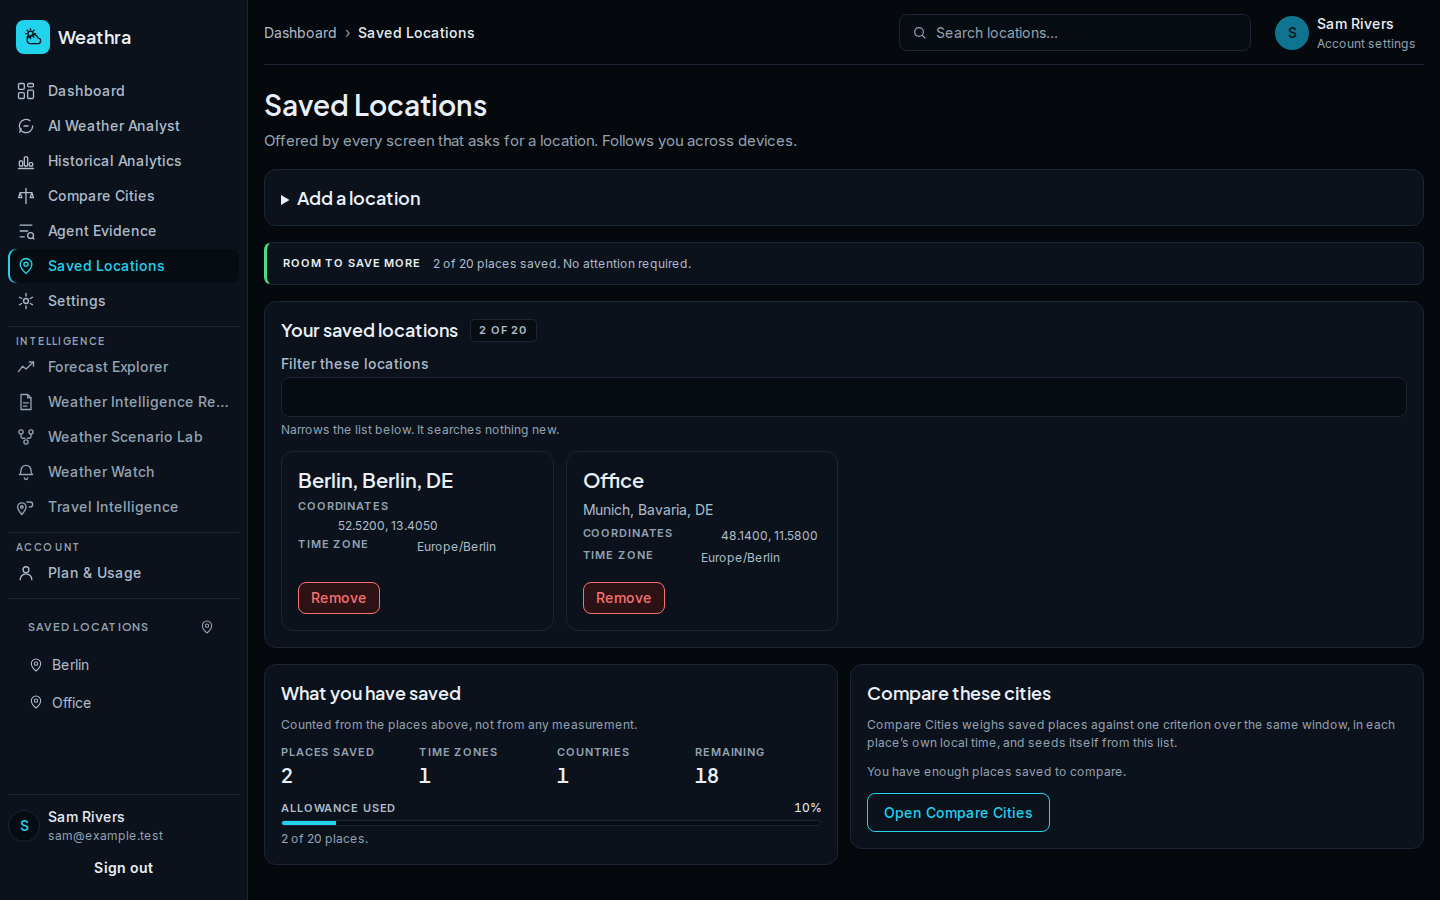
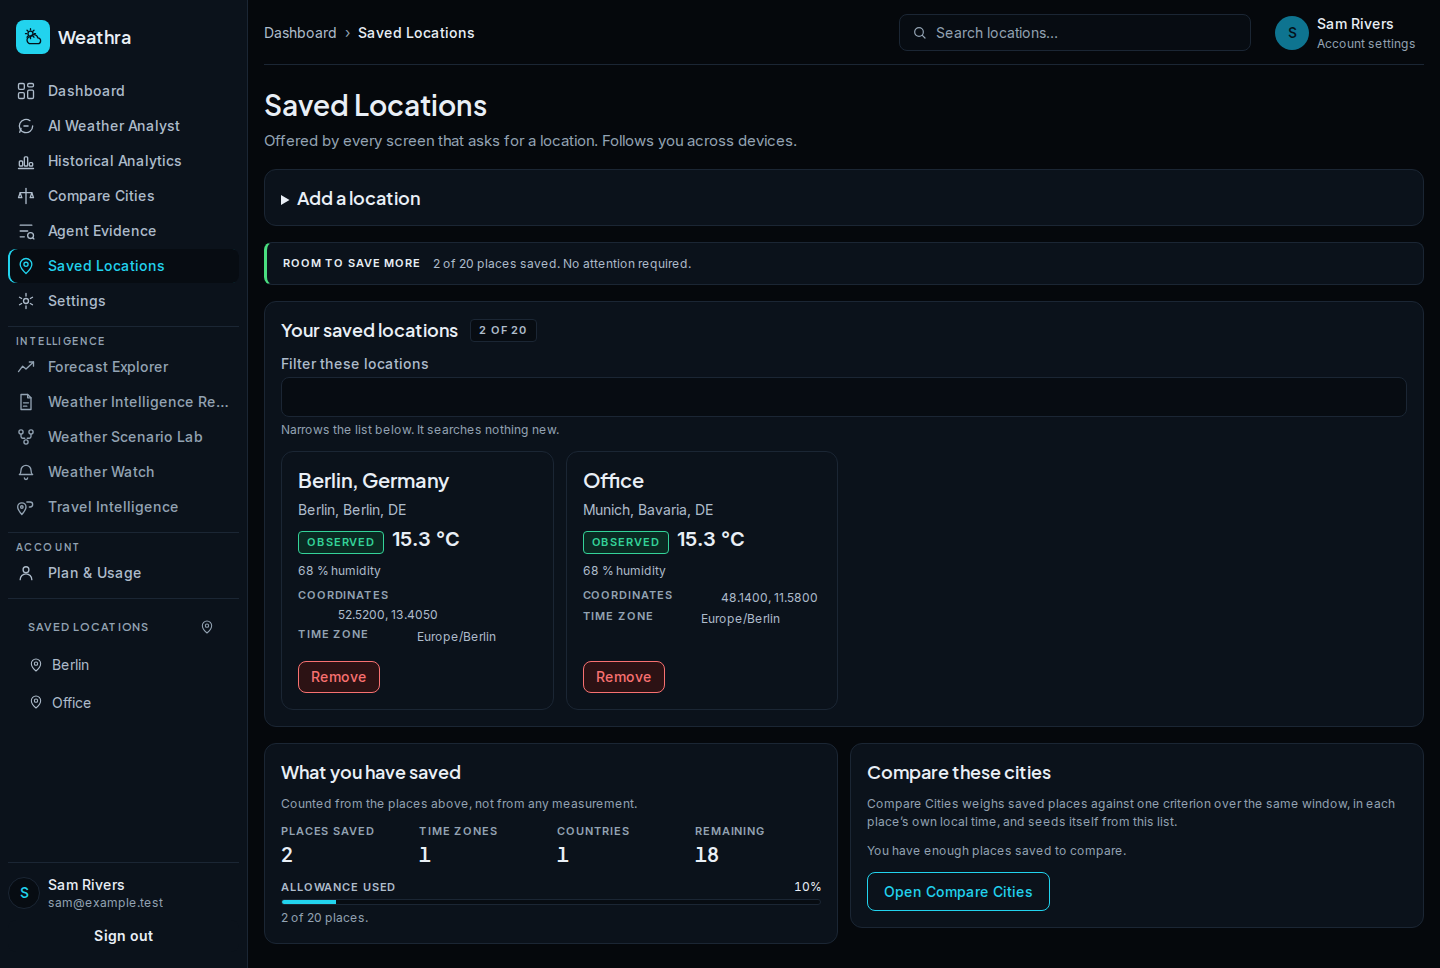
feat(locations): name places for people, and put the weather on the card
Two gaps a screenshot of the running screen made obvious.

A saved Berlin read **"Berlin, Berlin, DE"**. That is `qualifiedName`, which
exists to round-trip a place back through the geocoder — country *code*, region
repeated even when the region is the city. It was never meant to be read.
`friendlyName` is: the country spelled out, and the region only when it says
something the city does not. Berlin, Germany. Tokyo, Japan. Yamunanagar,
Haryana, India. No city is named in the implementation; the rule is about what
the provider reported.

And the cards carried a name, coordinates and a Remove button — no weather at
all. `06-saved-locations.png` puts the weather on every card, and it is the
reason the screen exists: a list of names and coordinates answers nothing a
person came here to ask. Each card now reads `/weather/current` for its own
point, the same endpoint the Dashboard uses so the two cannot disagree, cached
by the query layer. The temperature leads; humidity and wind follow quietly;
the coordinates stay, as the card's smallest print, because they are how
Weathra identifies a place rather than what it is called. A place whose
provider reports nothing shows nothing, not a row of dashes.

The canonical line under a card now appears only when the title is the
person's own label — repeating "Berlin, Germany" under "Berlin, Germany" was
noise.

diff --git a/weathra/frontend/components/locations/locations.tsx b/weathra/frontend/components/locations/locations.tsx
@@ -31,20 +31,37 @@
 import Link from "next/link";
 import { useCallback, useState, type FormEvent, type ReactNode } from "react";
 
-import { Badge, Button, EmptyState, ErrorState, Input, LoadingState, Meter } from "@/components/ui";
+import {
+  Badge,
+  Button,
+  DataClassBadge,
+  EmptyState,
+  ErrorState,
+  Input,
+  LoadingState,
+  Meter,
+  Skeleton,
+} from "@/components/ui";
 import { ViewStateSwitch } from "@/components/view-state";
-import type { Location, SavedLocationRecord, SavedLocationsResponse } from "@/lib/api/schema";
+import type {
+  CurrentResponse,
+  Location,
+  SavedLocationRecord,
+  SavedLocationsResponse,
+} from "@/lib/api/schema";
 import {
   coordinatesOf,
   isUnnamedPlace,
   matchesFilter,
-  qualifiedName,
+  placeKey,
+  friendlyName,
   savedLocationDisplay,
   savedLocationLabel,
   sendableName,
 } from "@/lib/locations/place";
 import { useApiMutation, useApiQuery } from "@/lib/query/hooks";
 import { PREFERENCES_KEY, SAVED_LOCATIONS_KEY } from "@/lib/query/keys";
+import { formatReading, readingFor } from "@/lib/dashboard/briefing";
 import { useLocationResolution } from "@/hooks/use-location-resolution";
 
 import { CandidateChoice } from "./candidate-choice";
@@ -114,6 +131,46 @@ function NamePlace({
 }
 
 
+/**
+ * The current conditions at one saved place.
+ *
+ * `06-saved-locations.png` puts weather on every card, and it is the reason the screen exists: a
+ * list of names and coordinates answers nothing a person came here to ask. This reads
+ * `/weather/current` for the card's own coordinates — the same endpoint the Dashboard uses, so the
+ * two cannot disagree — and the query layer caches it, so opening the screen twice is one request
+ * per place rather than two.
+ *
+ * A place whose provider reports nothing renders nothing rather than a row of dashes. The card is
+ * still a card; it simply has no weather to show yet.
+ */
+function CardWeather({ location }: { readonly location: Location }): ReactNode {
+  const { state } = useApiQuery<CurrentResponse>({
+    key: ["weather", "current", placeKey(location)],
+    request: (client) =>
+      client.current({ latitude: location.latitude, longitude: location.longitude }),
+  });
+
+  if (state.kind === "loading") return <Skeleton height="var(--space-5)" />;
+  if (state.kind !== "ready") return null;
+
+  const temperature = readingFor("temperature", state.data.values, state.data.units);
+  const humidity = readingFor("relative_humidity", state.data.values, state.data.units);
+  const wind = readingFor("wind_speed", state.data.values, state.data.units);
+
+  if (!temperature && !humidity && !wind) return null;
+
+  return (
+    <div className={styles.cardWeather}>
+      <DataClassBadge dataClass="observed" />
+      {temperature ? <span className={styles.cardTemp}>{formatReading(temperature)}</span> : null}
+      <span className={styles.cardMeasures}>
+        {humidity ? <span>{formatReading(humidity)} humidity</span> : null}
+        {wind ? <span>{formatReading(wind)} wind</span> : null}
+      </span>
+    </div>
+  );
+}
+
 function LocationCard({
   record,
   onRemove,
@@ -129,7 +186,10 @@ function LocationCard({
   readonly naming: boolean;
   readonly disabled: boolean;
 }): ReactNode {
-  const canonical = qualifiedName(record.location);
+  // The place's own name, spelled for a person. Shown under the card's title only when the title is
+  // the person's *label* — repeating "Berlin, Germany" under "Berlin, Germany" is noise, and the
+  // qualified form the geocoder round-trips ("Berlin, Berlin, DE") is not for reading.
+  const canonical = friendlyName(record.location);
   const name = savedLocationLabel(record);
   const unnamed = isUnnamedPlace(record);
   const shown = savedLocationDisplay(record);
@@ -149,6 +209,13 @@ function LocationCard({
         <NamePlace record={record} onName={onName} busy={naming} disabled={disabled} />
       ) : null}
 
+      <CardWeather location={record.location} />
+
+      {/*
+        Where the place is, under what it is called and what the weather is doing there. Coordinates
+        are how Weathra identifies a point and are kept visible for that reason — but they are the
+        card's smallest print, not its subject.
+      */}
       <dl className={styles.cardFacts}>
         <div className={styles.cardRow}>
           <dt className={styles.cardTerm}>Coordinates</dt>
@@ -262,7 +329,7 @@ function AddLocation({
   );
 
   const saved = add.state.kind === "saved" ? add.state.data : null;
-  const savedPlaceName = saved?.location ? qualifiedName(saved.location) : null;
+  const savedPlaceName = saved?.location ? friendlyName(saved.location) : null;
 
   return (
     /*

diff --git a/weathra/frontend/lib/locations/place.test.ts b/weathra/frontend/lib/locations/place.test.ts
@@ -13,6 +13,7 @@ import type { Location, SavedLocationRecord } from "@/lib/api/schema";
 
 import {
   coordinatesOf,
+  friendlyName,
   isCoordinateName,
   isSamePlace,
   isUnnamedPlace,
@@ -84,8 +85,9 @@ describe("savedLocationLabel", () => {
   });
 
   it("falls back to the canonical name, never to a blank", () => {
-    expect(savedLocationLabel(record({ label: "   " }))).toBe("Berlin, Berlin, DE");
-    expect(savedLocationLabel(record({ label: null }))).toBe("Berlin, Berlin, DE");
+    // The readable name, not the geocoder's round-trip form.
+    expect(savedLocationLabel(record({ label: "   " }))).toBe("Berlin, Germany");
+    expect(savedLocationLabel(record({ label: null }))).toBe("Berlin, Germany");
   });
 });
 
@@ -206,5 +208,47 @@ describe("a saved place with no name of its own", () => {
     // The display name stops being digits; the coordinates remain available as metadata.
     expect(savedLocationDisplay(record)).toBe(UNNAMED_PLACE);
     expect(coordinatesOf(record.location)).toContain("-33.8688");
+  });
+});
+
+describe("the name a person reads", () => {
+  const place = (overrides: Partial<Location>): Location =>
+    ({
+      display_name: "Berlin",
+      latitude: 52.52,
+      longitude: 13.405,
+      timezone: "Europe/Berlin",
+      ...overrides,
+    }) as Location;
+
+  it("spells the country out and drops a region that repeats the city", () => {
+    expect(friendlyName(place({ region: "Berlin", country: "Germany", country_code: "DE" }))).toBe(
+      "Berlin, Germany",
+    );
+  });
+
+  it("keeps a region that says something the city does not", () => {
+    expect(
+      friendlyName(
+        place({ display_name: "Yamunanagar", region: "Haryana", country: "India", country_code: "IN" }),
+      ),
+    ).toBe("Yamunanagar, Haryana, India");
+  });
+
+  it("works for arbitrary places worldwide, naming no city in the implementation", () => {
+    expect(friendlyName(place({ display_name: "Tokyo", region: "Tokyo", country: "Japan" }))).toBe(
+      "Tokyo, Japan",
+    );
+    expect(
+      friendlyName(place({ display_name: "Dubai", region: "Dubai", country: "United Arab Emirates" })),
+    ).toBe("Dubai, United Arab Emirates");
+  });
+
+  it("falls back to the country code when the provider reported no country name", () => {
+    expect(friendlyName(place({ country_code: "DE" }))).toBe("Berlin, DE");
+  });
+
+  it("is the city alone when the provider reported nothing else", () => {
+    expect(friendlyName(place({}))).toBe("Berlin");
   });
 });

diff --git a/weathra/frontend/lib/locations/place.ts b/weathra/frontend/lib/locations/place.ts
@@ -33,6 +33,31 @@ export function qualifiedName(location: Location): string {
 }
 
 /**
+ * The name a person reads: `Berlin, Germany`, `Yamunanagar, Haryana, India`.
+ *
+ * Distinct from `qualifiedName`, and the two must not be confused. That one round-trips to the
+ * geocoder, so it uses the country *code* and repeats the region even when the region is the city —
+ * which is why a saved Berlin read "Berlin, Berlin, DE" on screen. This one is for reading: the
+ * country is spelled out, and the region appears only when it says something the city does not.
+ *
+ * Nothing is invented. A place whose provider reported no country is its city, and a place with no
+ * name at all is handled a level up by `savedLocationDisplay`.
+ */
+export function friendlyName(location: Location): string {
+  const city = location.display_name?.trim() ?? "";
+  const region = location.region?.trim() ?? "";
+  const country = location.country?.trim() || location.country_code?.trim() || "";
+
+  const parts = [city];
+  // A region that merely repeats the city adds nothing — Berlin is in Berlin — and a region equal
+  // to the country is the same redundancy one level up.
+  if (region && region !== city && region !== country) parts.push(region);
+  if (country && country !== city) parts.push(country);
+
+  return parts.join(", ");
+}
+
+/**
  * A stable key for a place, from its coordinates.
  *
  * The same distinction the backend's saved-location store de-duplicates on: a place is where it is,
@@ -51,7 +76,7 @@ export function isSamePlace(left: Location | null | undefined, right: Location |
 
 /** What a saved location is called: the person's own label, or the canonical name. */
 export function savedLocationLabel(record: SavedLocationRecord): string {
-  return record.label?.trim() || qualifiedName(record.location);
+  return record.label?.trim() || friendlyName(record.location);
 }
 
 /** What an unnamed place is called on screen, until somebody names it. */

diff --git a/weathra/frontend/components/locations/locations.test.tsx b/weathra/frontend/components/locations/locations.test.tsx
@@ -158,13 +158,15 @@ describe("the saved list", () => {
     expect(cards).toHaveLength(2);
 
     expect(cards[0]).toHaveAttribute("data-saved-location", "s-berlin");
-    expect(cards[0]).toHaveTextContent("Berlin, Berlin, DE");
+    expect(cards[0]).toHaveTextContent("Berlin, Germany");
     expect(cards[0]).toHaveTextContent("52.5200, 13.4050");
     expect(cards[0]).toHaveTextContent("Europe/Berlin");
 
     // A person's own label leads, with the canonical name still shown beneath it.
     expect(cards[1]).toHaveTextContent("Office");
-    expect(cards[1]).toHaveTextContent("Tokyo, Tokyo, JP");
+    // Under a label, the place is named for a person: "Tokyo, Japan", not the geocoder's
+    // round-trip form.
+    expect(cards[1]).toHaveTextContent("Tokyo, Japan");
 
     expect(within(list).getByText("2 of 20")).toBeInTheDocument();
   });
@@ -264,7 +266,7 @@ describe("adding a location", () => {
     });
 
     // Confirmed by the backend, and the list re-read rather than patched locally.
-    expect(await screen.findByText("Saved Tokyo, Tokyo, JP.")).toBeInTheDocument();
+    expect(await screen.findByText("Saved Tokyo, Japan.")).toBeInTheDocument();
     await waitFor(() =>
       expect(
         within(screen.getByRole("region", { name: "Your saved locations" })).getAllByRole("listitem"),
@@ -518,7 +520,7 @@ describe("saving an ambiguous place", () => {
       longitude: -93.2982,
       label: null,
     });
-    expect(await screen.findByText("Saved Springfield, Missouri, US.")).toBeInTheDocument();
+    expect(await screen.findByText("Saved Springfield, Missouri, United States.")).toBeInTheDocument();
   });
 
   it("keeps the person's own label when they choose a candidate", async () => {

diff --git a/weathra/frontend/components/locations/locations.module.css b/weathra/frontend/components/locations/locations.module.css
@@ -345,3 +345,33 @@
   color: var(--color-text-muted);
   font-size: var(--type-meta-size);
 }
+
+/* ------------------------------------------------------- weather on a card */
+
+/*
+ * `06-saved-locations.png` puts the weather on every card, and it is the reason the screen exists:
+ * a list of names and coordinates answers nothing a person came here to ask. The temperature leads,
+ * the secondary measures follow it quietly, and the coordinates below are the card's smallest print.
+ */
+.cardWeather {
+  display: flex;
+  flex-wrap: wrap;
+  align-items: baseline;
+  gap: var(--space-2);
+  min-width: 0;
+}
+
+.cardTemp {
+  color: var(--color-text-primary);
+  font-size: var(--type-heading-size);
+  line-height: var(--type-heading-line);
+  font-weight: var(--type-heading-weight);
+}
+
+.cardMeasures {
+  display: flex;
+  flex-wrap: wrap;
+  gap: var(--space-2);
+  color: var(--color-text-secondary);
+  font-size: var(--type-meta-size);
+}
